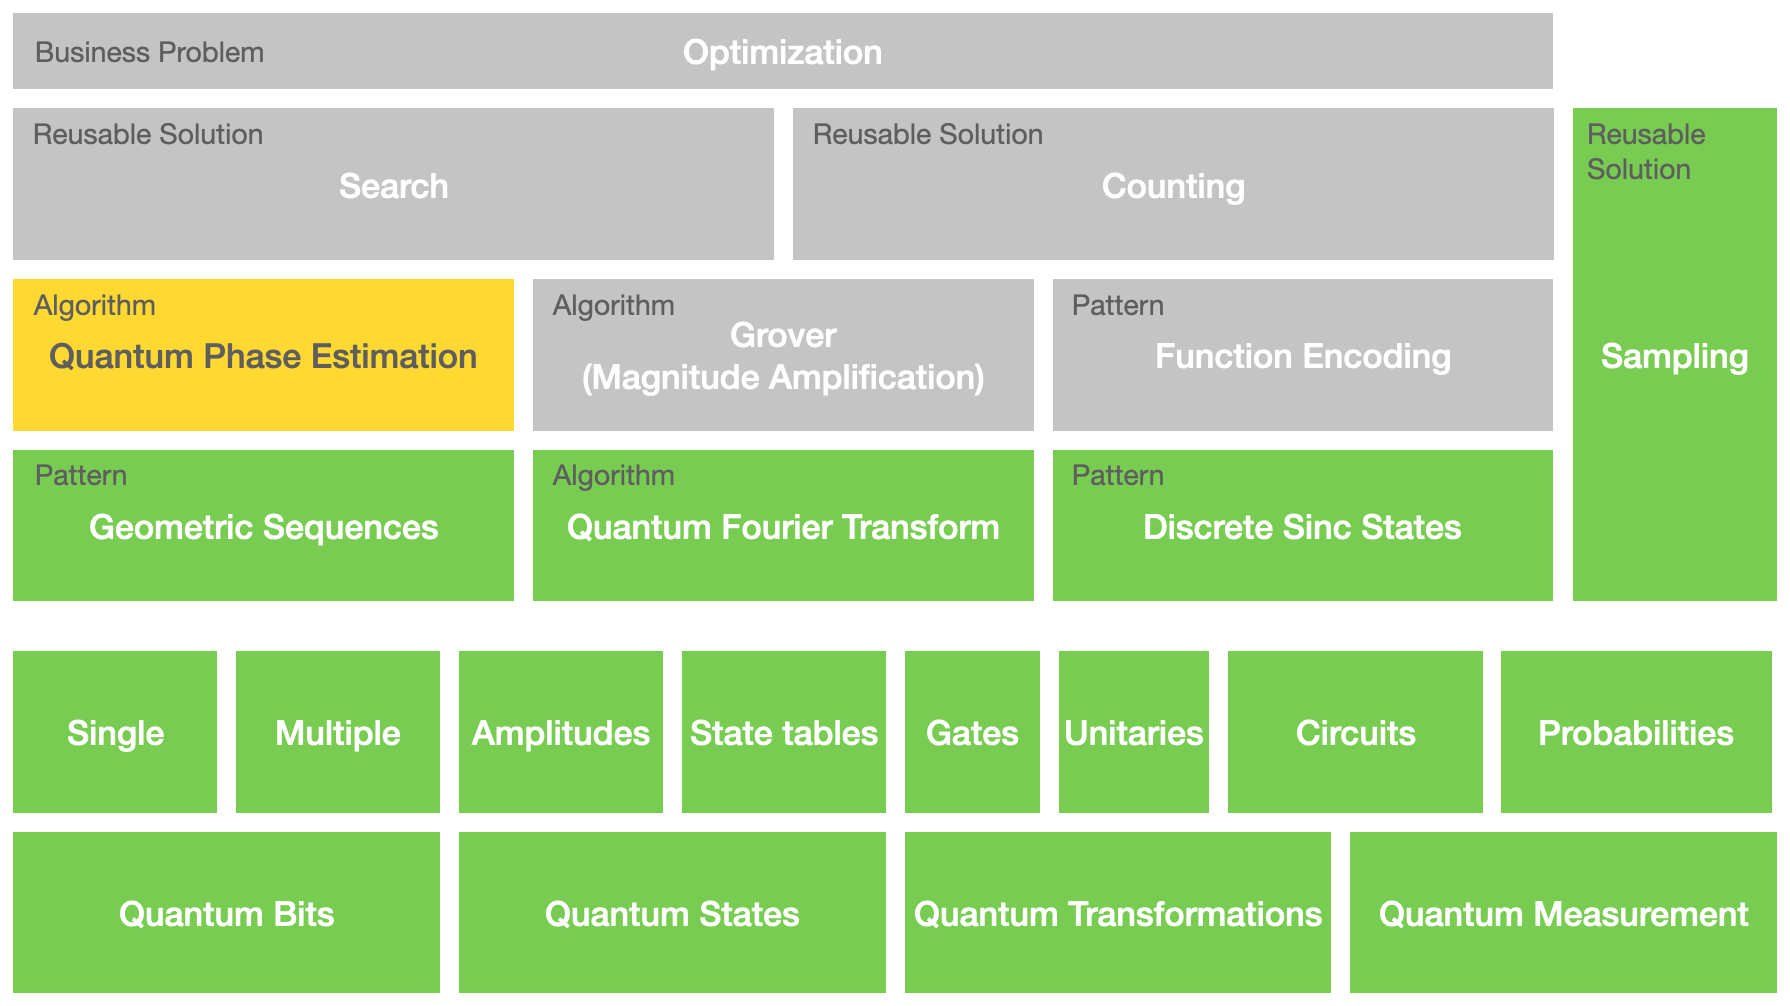
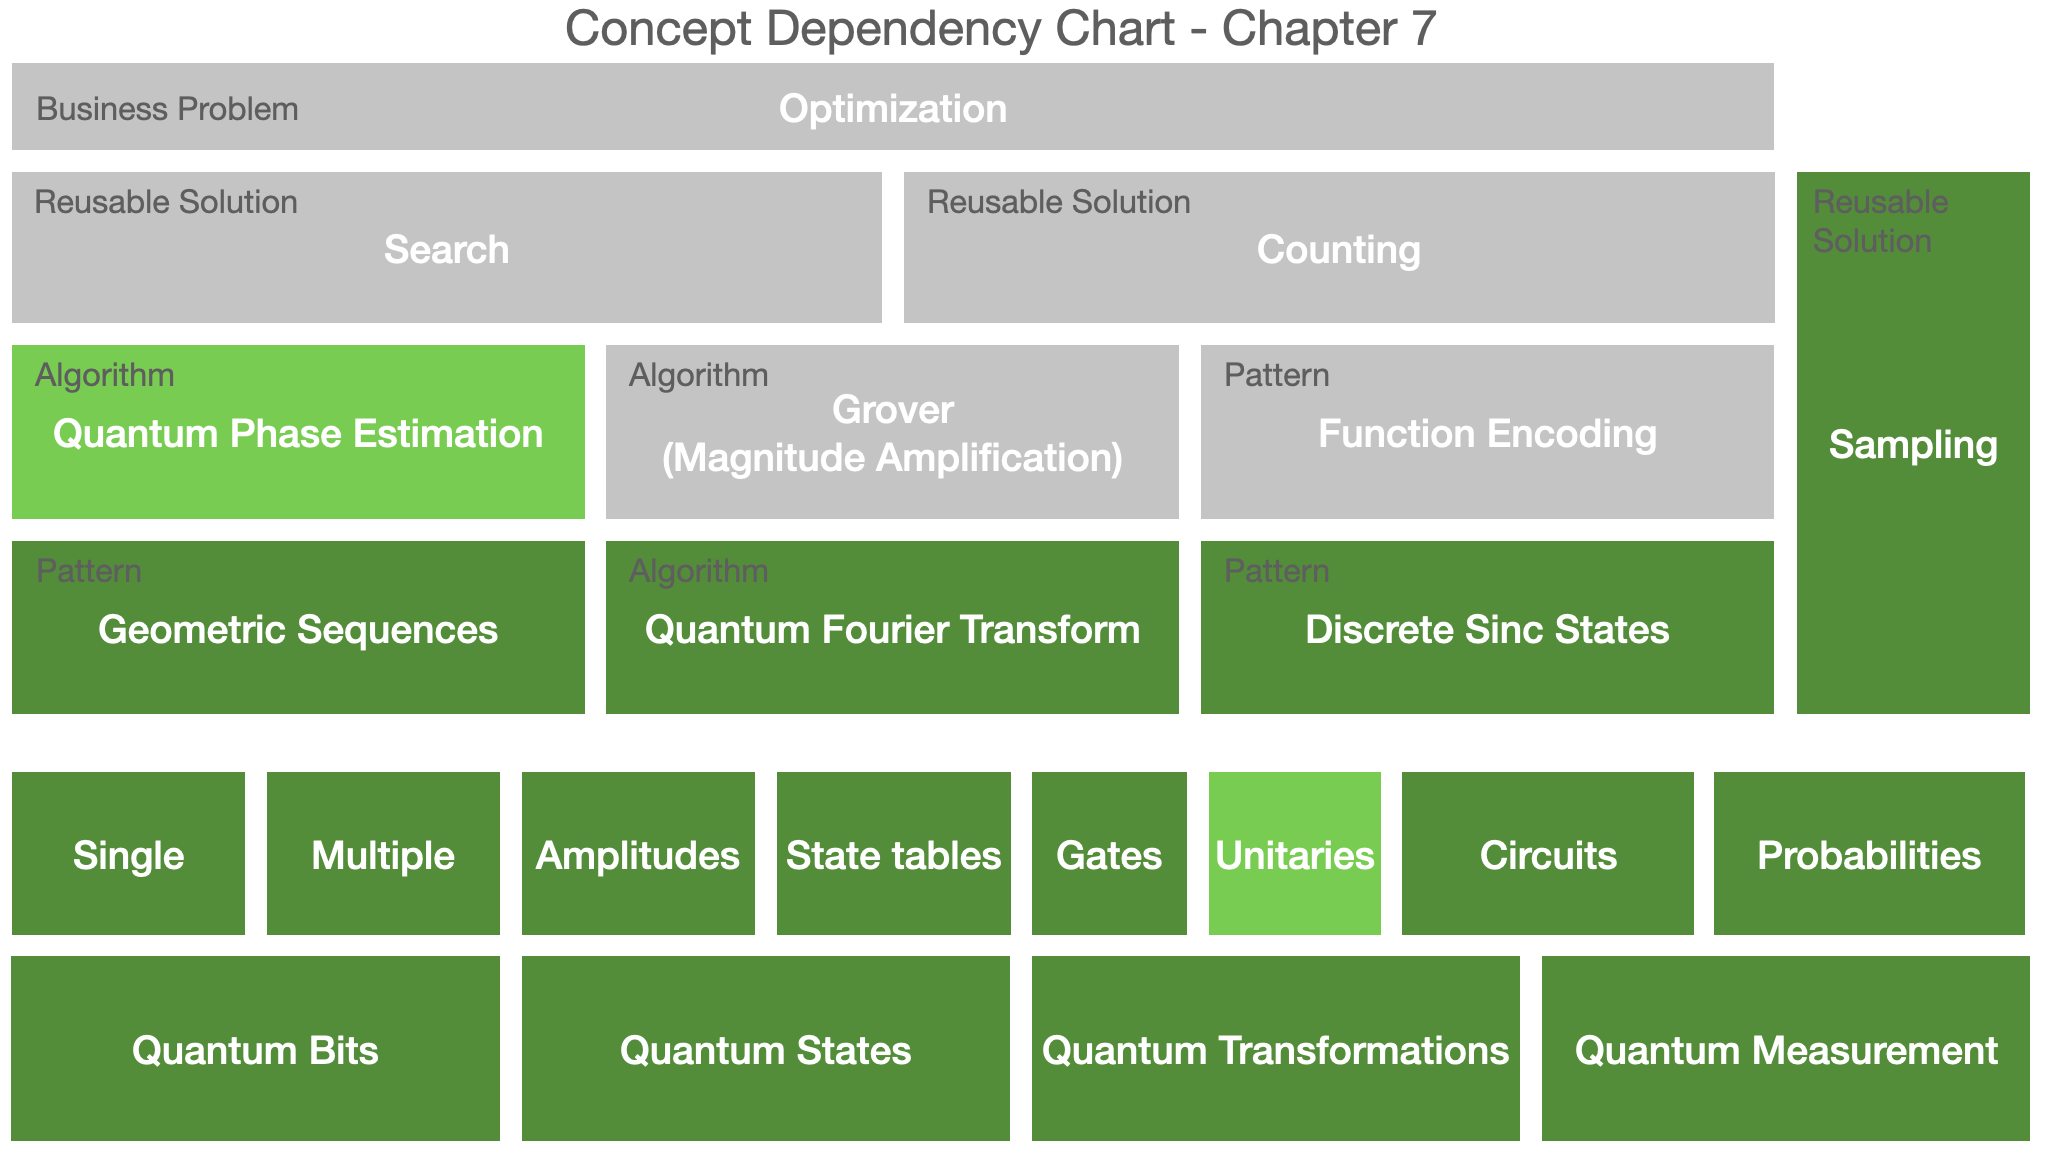
adding dependency charts to each chapter

diff --git a/src/ch03/README.md b/src/ch03/README.md
@@ -1,5 +1,10 @@
 # Single-qubit systems
 
+
+The concepts covered in this chapter are highlighted in the dependency chart below.
+
+<img src="images/ch03_dependency_chart.png" width="70%">
+
 ### Practitioner insights
 
 * A single-qubit quantum system is like a coin: it has two possible measurement outcomes, and each of them has a probability with direction (amplitude) associated to it.
@@ -7,3 +12,4 @@
 * An outcome can be thought of as a binary digit, 0 or 1. The number of qubits in a system defines the number of binary digits in its possible measurement outcomes.
 * A qubit does not need to have a special representation in quantum computing, as it is already represented as a position in binary string outcomes.
 * We visualize amplitudes as rows in a table, including their magnitude, direction, and a colored bar.
+

diff --git a/src/ch04/README.md b/src/ch04/README.md
@@ -1,5 +1,10 @@
 # Multi-qubit systems
 
+The concepts covered in this chapter are highlighted in the dependency chart below. 
+This chapter covers the same concepts as in chapter 3 in the context of more that one qubit.
+
+<img src="images/ch04_dependency_chart.png" width="70%">
+
 ### Practitioner insights
 
 * Each qubit represents a digit in the possible measurement outcomes of the system. An n-qubit system has 2 to the power n possible outcomes.

diff --git a/src/ch06/README.md b/src/ch06/README.md
@@ -1,5 +1,9 @@
 # Applications of the quantum Fourier transform
 
+The concepts introduced in this chapter are highlighted in the dependency chart below.
+
+<img src="images/ch06_dependency_chart.png" width="70%">
+
 ### Practitioner insights
 
 * The quantum Fourier transform and its inverse can be used to prepare useful probability distributions as quantum states.

diff --git a/src/ch05/README.md b/src/ch05/README.md
@@ -1,5 +1,9 @@
 # Quantum Fourier transform
 
+The concepts introduced in this chapter are highlighted in the dependency chart below.
+
+<img src="images/ch05_dependency_chart.png" width="70%">
+
 ### Practitioner insights
 
 * Geometric sequence states are the equivalent of single-frequency signals (complex sinusoids) in digital signal processing.
